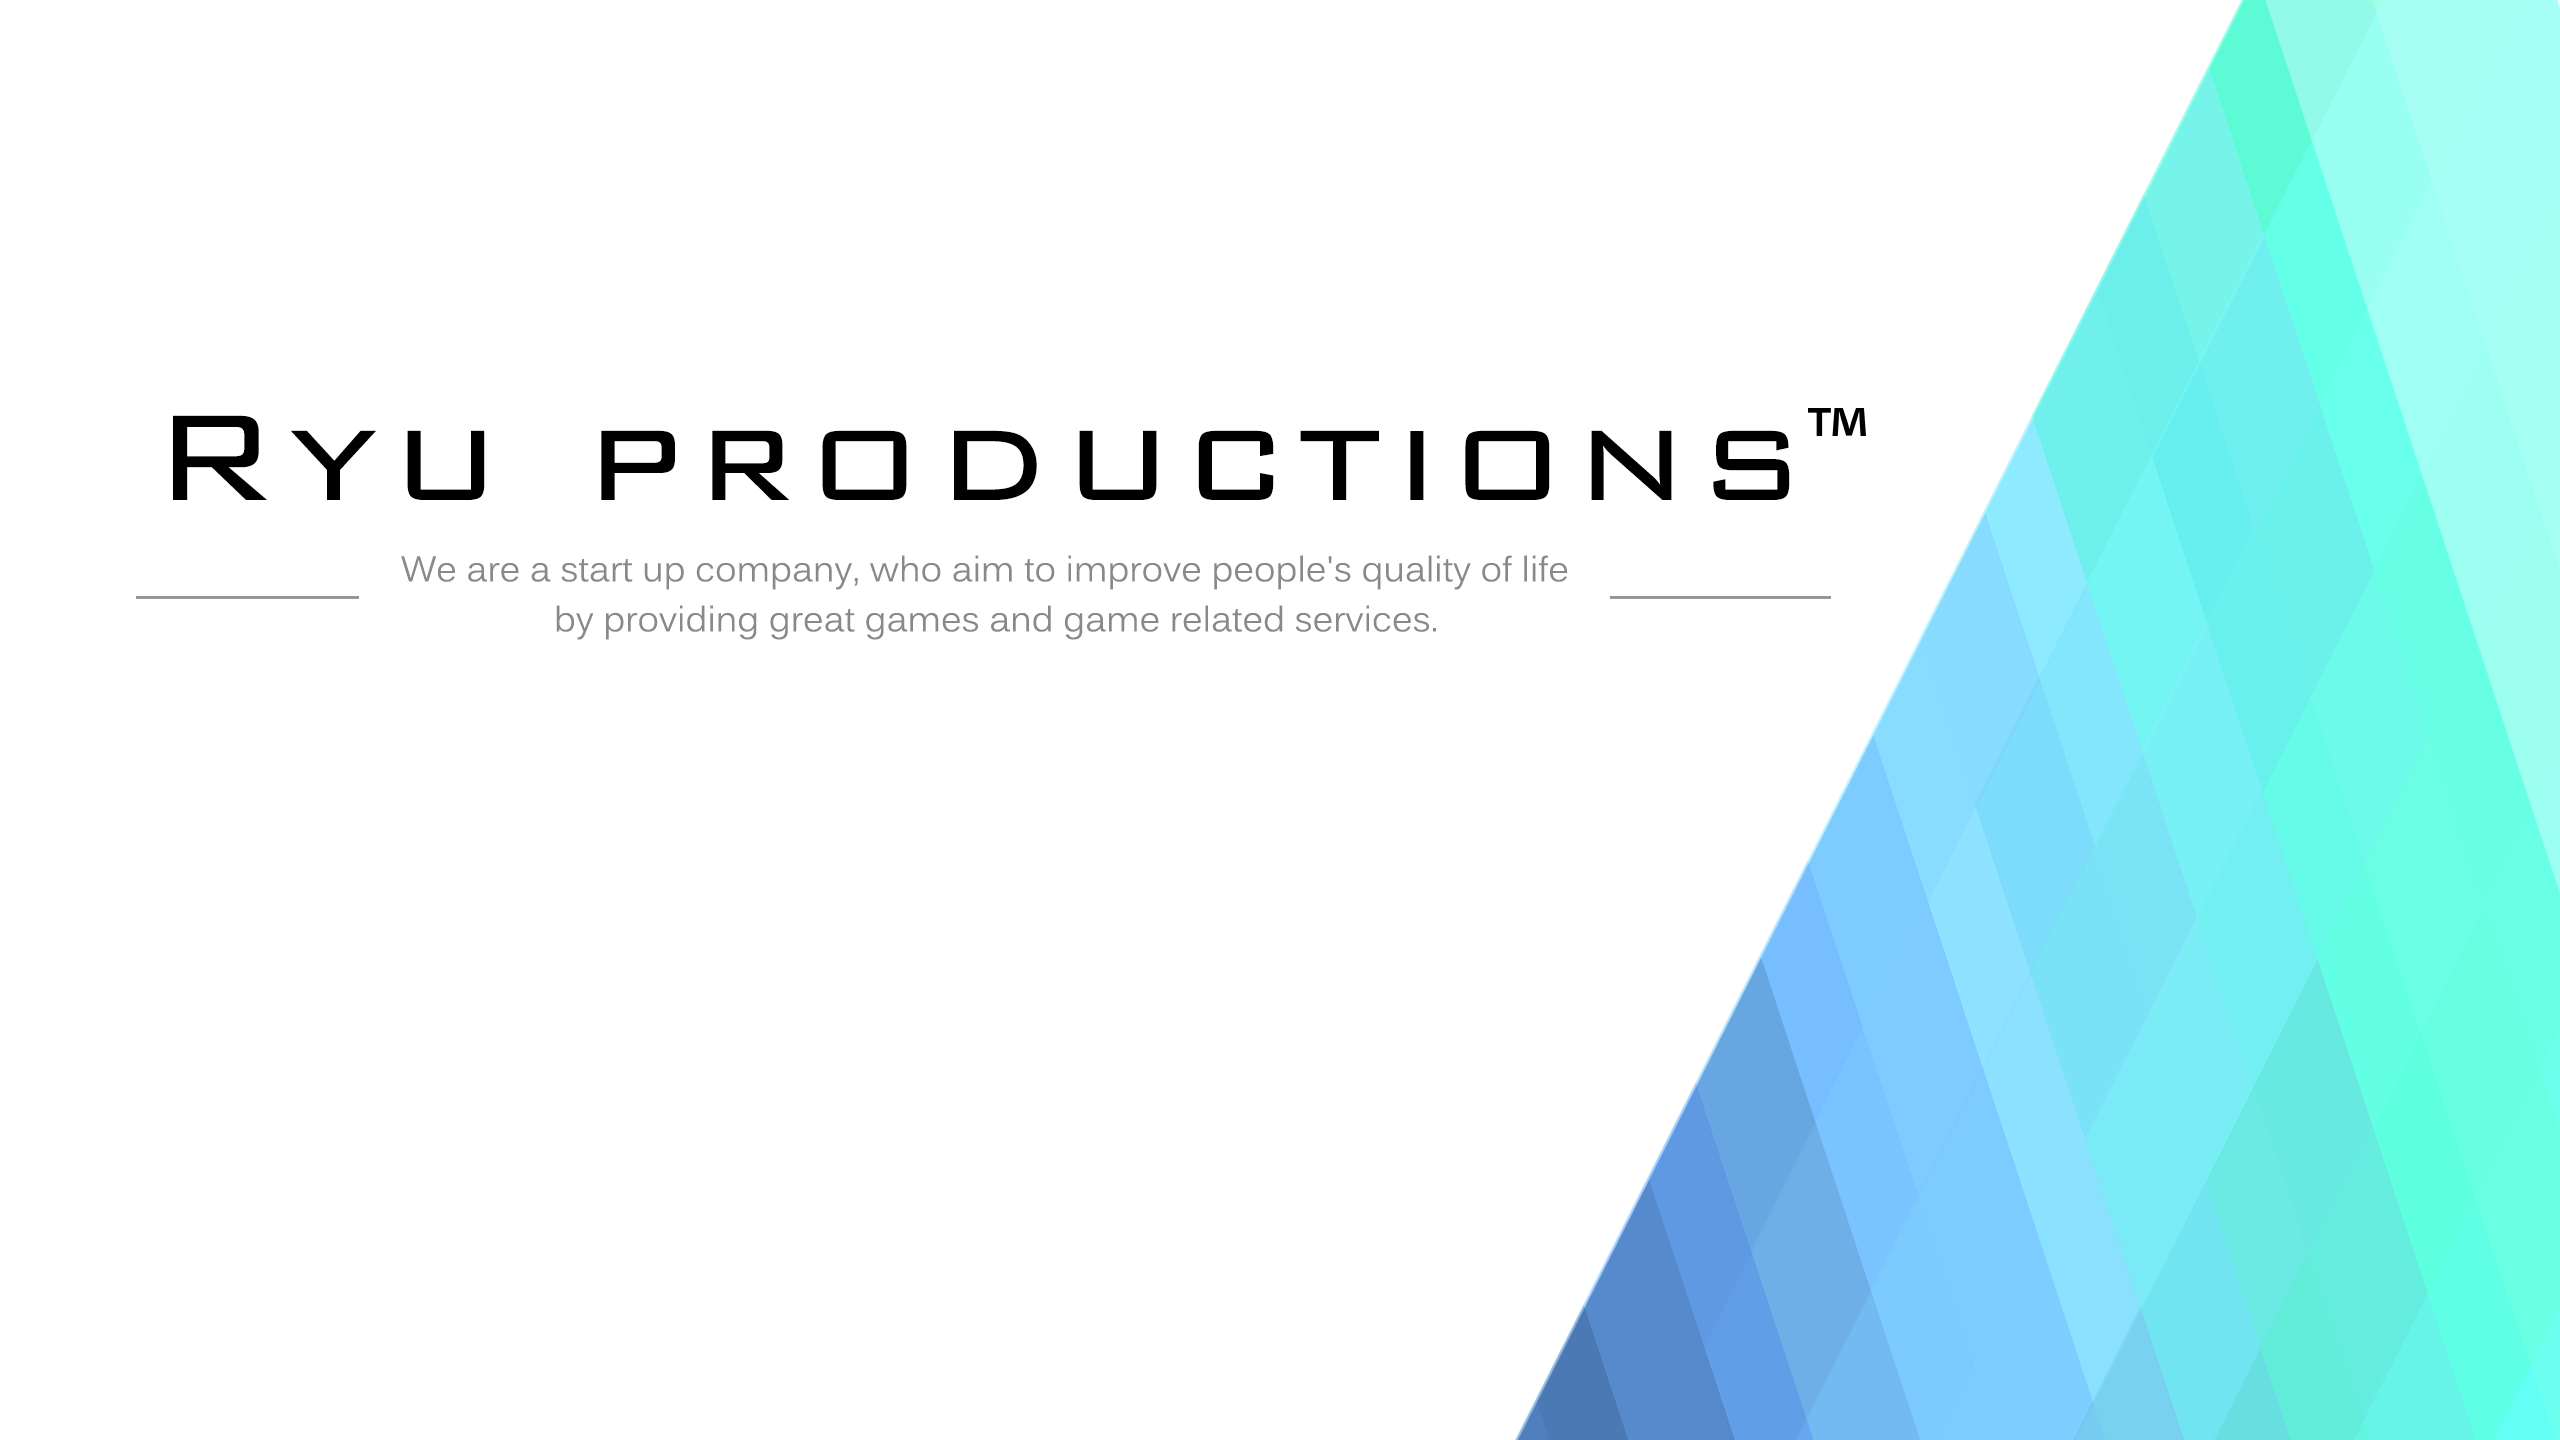
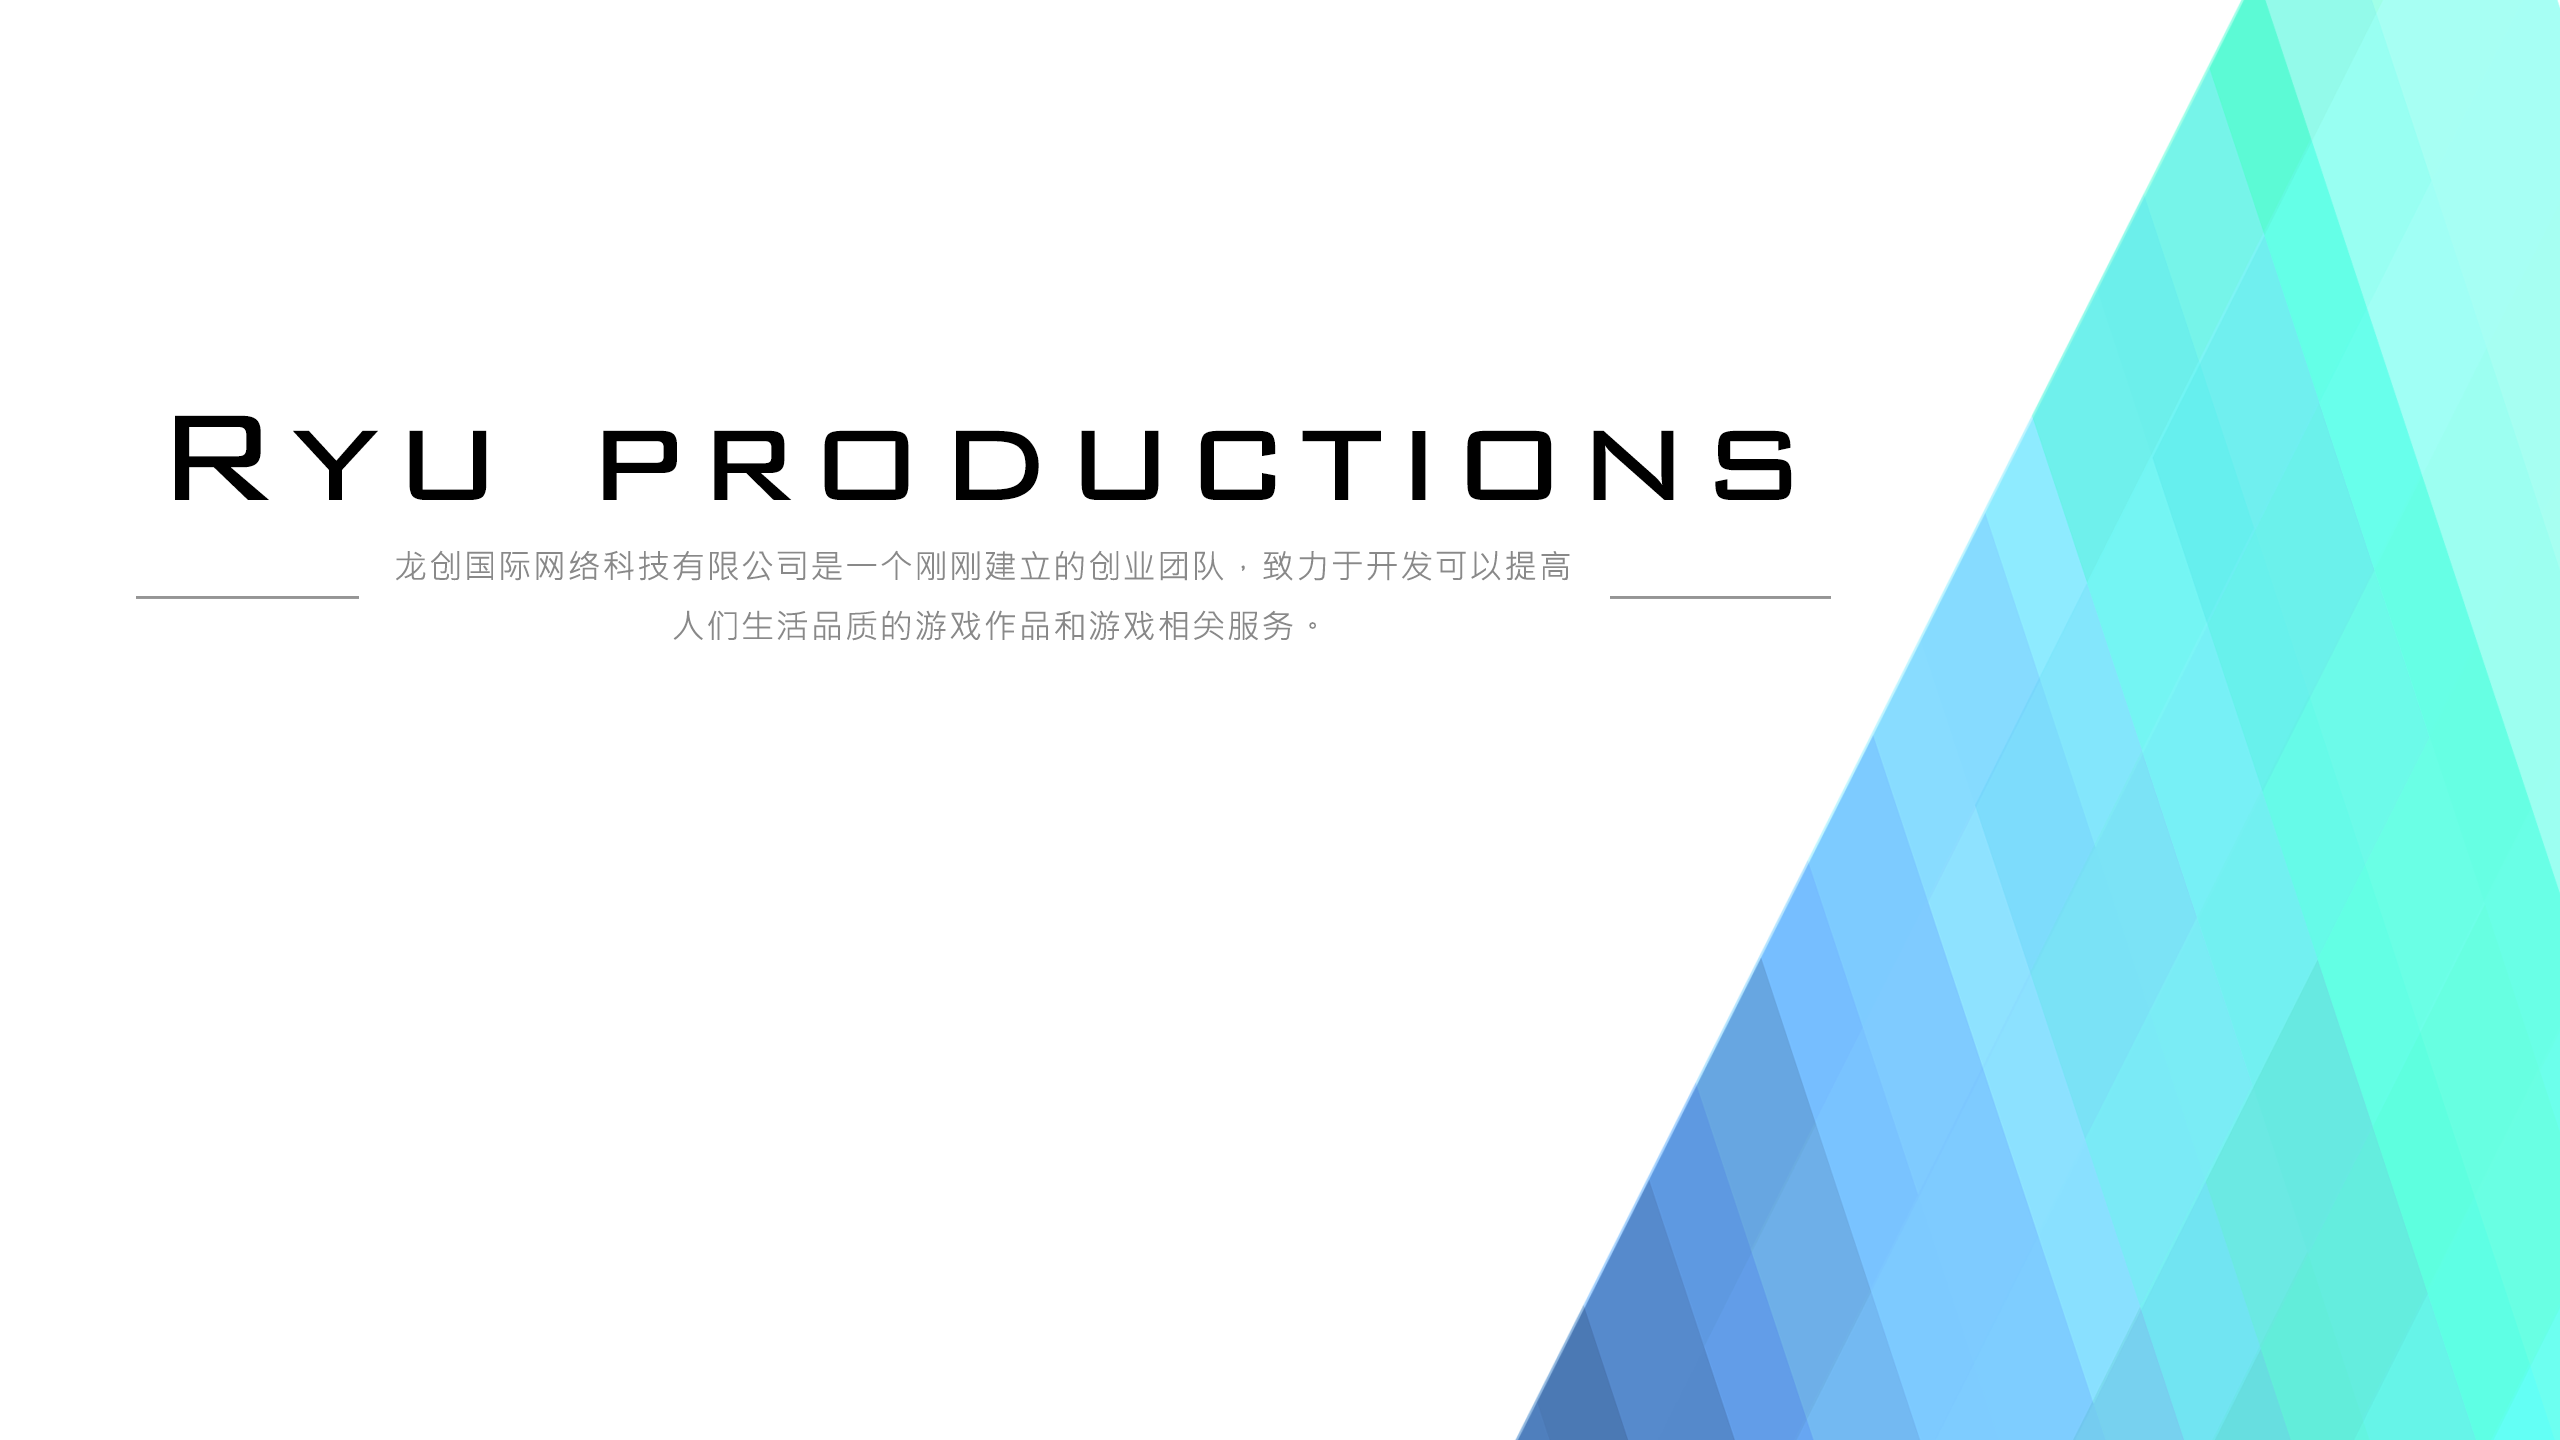
继续更新
1、标签三个状态完成
2、修改vision页滑动，但仍不完美，同时提出增加回到顶部的按钮的建议。。。
3、关于我们 页面的文字布局调整
4、首页的汉化

diff --git a/vision.html b/vision.html
@@ -40,11 +40,12 @@ $(document).ready(function(){
 </script>
 <script type="text/javascript">
 var currentSlide = 0;
-var slides = new Array("#slide_0", "#slide_1", "#slide_2", "#slide_3", "#slide_4");
+var scrolling = false;
+var slides = new Array("#head", "#slide_0", "#slide_1", "#slide_2", "#slide_3", "#slide_4");
 var pageHeight = new Array(189, 867, 1441, 1892, 2319);
 document.addEventListener("mousewheel",function(e){
  	e = e || window.event;
-	if(currentSlide != 999){
+	/*if(currentSlide != 999){
 		if( window.pageYOffset < pageHeight[0]){
 					currentSlide = 0;
  				}else if( window.pageYOffset >= pageHeight[0] && window.pageYOffset < pageHeight[1] ){
@@ -56,22 +57,30 @@ document.addEventListener("mousewheel",function(e){
 				}else if( window.pageYOffset >= pageHeight[3] && window.pageYOffset < pageHeight[4] ){
  					currentSlide = 4;
  				}
-	}
+	}*/
  	if(e.wheelDelta){
- 		if(e.wheelDelta > 0){
- 			//向上滚动
-			
- 		}else{
- 			//向下滚动
- 			if(currentSlide < 5){
-				temp = currentSlide;
-				currentSlide = 999;
-				$.scrollTo(slides[temp], 800);
- 				currentSlide = temp + 1;
- 			}
-			
- 		}
- 	}
+		event.preventDefault();
+ 		if(!scrolling){
+			scrolling = true;
+			if(e.wheelDelta > 0){
+ 				//向上滚动
+				if(currentSlide > 0){
+					currentSlide = currentSlide - 1;
+					$.scrollTo(slides[currentSlide], 800, function(){
+						scrolling = false;
+					});
+				}
+ 			}else{
+ 				//向下滚动
+				if(currentSlide < 6){
+					$.scrollTo(slides[currentSlide], 800, function(){
+						scrolling = false;
+					});
+ 					currentSlide = currentSlide + 1;
+ 				}
+	 		}
+		}
+	}
  }, false);
 function hover(id){
 	switch(id){
@@ -99,7 +108,7 @@ function recover(id){
 			document.getElementById("2").src = "image/tagsecond.png";
 			break;
 		case "3":
-			document.getElementById("3").src = "image/tagthird.png";
+			document.getElementById("3").src = "image/tagthirdactive.png";
 			break;
 		case "4":
 			document.getElementById("4").src = "image/tagfourth.png";
@@ -111,7 +120,7 @@ function recover(id){
 
 <body>
 <!-- base frame -->
-<div class="baseframe">
+<div id="head" class="baseframe">
 	<!-- head frame -->
     <div class="headframe">
     	<!-- logo -->
@@ -161,7 +170,7 @@ function recover(id){
                     </li>
                     <li>
                     	<div class="third">理念</div>
-                        <img id="3" state="static" class="thirdimg" src="image/tagthird.png" />
+                        <img id="3" state="static" class="thirdimg" src="image/tagthirdactive.png" />
                     </li>
                     <li>
                     	<div class="fourth">关于我们</div>

diff --git a/about.html b/about.html
@@ -66,7 +66,7 @@ function recover(id){
 			document.getElementById("3").src = "image/tagthird.png";
 			break;
 		case "4":
-			document.getElementById("4").src = "image/tagfourth.png";
+			document.getElementById("4").src = "image/tagfourthactive.png";
 			break;
 	}
 }
@@ -129,7 +129,7 @@ function recover(id){
                     </li>
                     <li>
                     	<div class="fourth">关于我们</div>
-                        <img id="4" state="static" class="fourthimg" src="image/tagfourth.png" />
+                        <img id="4" state="static" class="fourthimg" src="image/tagfourthactive.png" />
                     </li>
                 </ul>
                 <div class="clearframe"></div>
@@ -141,7 +141,7 @@ function recover(id){
     <!-- main frame -->
     <div class="mainframe">
     	<img src="image/about.png" />
-        <div class="content">龍创国际网络科技有限公司（RYU PRODUCTIONS CO.,LTD）成立于2013年12月。本公司致力于开发可以提高人们生活品质的游戏作品和游戏相关服务，主要业务是策划并开发以苹果iOS，任天堂3DS为平台的原创游戏，以及引进日本的优秀游戏到中国大陆和香港市场。我们的团队和日本的很多游戏公司有着很好的商业合作关系，拥有多个日本游戏在中国大陆和香港发行的版权。现在本公司在开发多个游戏项目以及游戏相关的网络社交服务项目。</div>
+        <div class="content"><p>龍创国际网络科技有限公司（RYU PRODUCTIONS CO.,LTD）成立于2013年12月。本公司致力于开发可以提高人们生活品质的游戏作品和<br />游戏相关服务，主要业务是策划并开发以苹果iOS，任天堂3DS为平台的原创游戏，以及引进日本的优秀游戏到中国大陆和香港市场。我们的团队和日本的很多游戏公司有着很好的商业合作关系，拥有多个日本游戏在中国大陆和香港发行的版权。<br />现在本公司在开发多个游戏项目以及游戏相关的网络社交服务项目。</p></div>
         <div class="clearframe"></div>
     </div>
     <!-- foot frame -->

diff --git a/css/base.css b/css/base.css
@@ -133,6 +133,7 @@ body{
 .headframe .headline ul li .first:hover{
 	background-color:#6baaf2;
 	color:#ffffff;
+	text-shadow: 0 0 15px #ffffff;
 }
 .headframe .headline ul li .second{
 	margin: 10px 0 10px 50px;
@@ -146,6 +147,7 @@ body{
 .headframe .headline ul li .second:hover{
 	background-color:#6bcdf1;
 	color:#ffffff;
+	text-shadow: 0 0 15px #ffffff;
 }
 .headframe .headline ul li .third{
 	margin: 10px 0 10px 50px;
@@ -159,6 +161,7 @@ body{
 .headframe .headline ul li .third:hover{
 	background-color:#71e4f2;
 	color:#ffffff;
+	text-shadow: 0 0 15px #ffffff;
 }
 .headframe .headline ul li .fourth{
 	margin: 10px 0 10px 50px;
@@ -172,6 +175,7 @@ body{
 .headframe .headline ul li .fourth:hover{
 	background-color:#4ae8d2;
 	color:#ffffff;
+	text-shadow: 0 0 15px #ffffff;
 }
 .mainframe{
 	margin:0 auto;

diff --git a/products.html b/products.html
@@ -61,7 +61,7 @@ function recover(id){
 			document.getElementById("1").src = "image/tagfirst.png";
 			break;
 		case "2":
-			document.getElementById("2").src = "image/tagsecond.png";
+			document.getElementById("2").src = "image/tagsecondactive.png";
 			break;
 		case "3":
 			document.getElementById("3").src = "image/tagthird.png";
@@ -122,7 +122,7 @@ function recover(id){
                     </li>
                     <li>
                     	<div class="second">产品</div>
-                        <img id="2" state="static" class="secondimg" src="image/tagsecond.png" />
+                        <img id="2" state="static" class="secondimg" src="image/tagsecondactive.png" />
                     </li>
                     <li>
                     	<div class="third">理念</div>

diff --git a/index.html b/index.html
@@ -101,7 +101,7 @@ function hover(id){
 function recover(id){
 	switch(id){
 		case "1":
-			document.getElementById("1").src = "image/tagfirst.png";
+			document.getElementById("1").src = "image/tagfirstactive.png";
 			break;
 		case "2":
 			document.getElementById("2").src = "image/tagsecond.png";
@@ -160,7 +160,7 @@ function recover(id){
             	<ul>
                 	<li>
                     	<div class="first">主页</div>
-                        <img id="1" state="in" class="firstimg" src="image/tagfirst.png" />
+                        <img id="1" state="in" class="firstimg" src="image/tagfirstactive.png" />
                     </li>
                     <li>
                     	<div class="second">产品</div>

diff --git a/css/about.css b/css/about.css
@@ -8,8 +8,8 @@
 	clear:both;
 	margin: 10px 60px 10px 60px;
 	font-family: "微軟正黑體", "微软雅黑", "华文细黑";
-	font-size:18px;
+	font-size:16px;
 	color:#000;
-	text-indent:2em;
+	text-align:center;
 	line-height:45px;
 }

diff --git a/css/page.css b/css/page.css
@@ -19,7 +19,7 @@ body{
 	float:left;
 	padding: 6px 30px 0px 30px;
 	position:absolute;
-	top: 60%;
+	top: 55%;
 	left: 30%;
 	border:solid 2px #6baaf2;
 	border-radius:10px;

diff --git a/css/vision.css b/css/vision.css
@@ -1,4 +1,7 @@
 @charset "utf-8";
+body{
+	overflow-y:hidden;
+}
 .briefinfo{
 	clear:both;
 	margin:auto;
